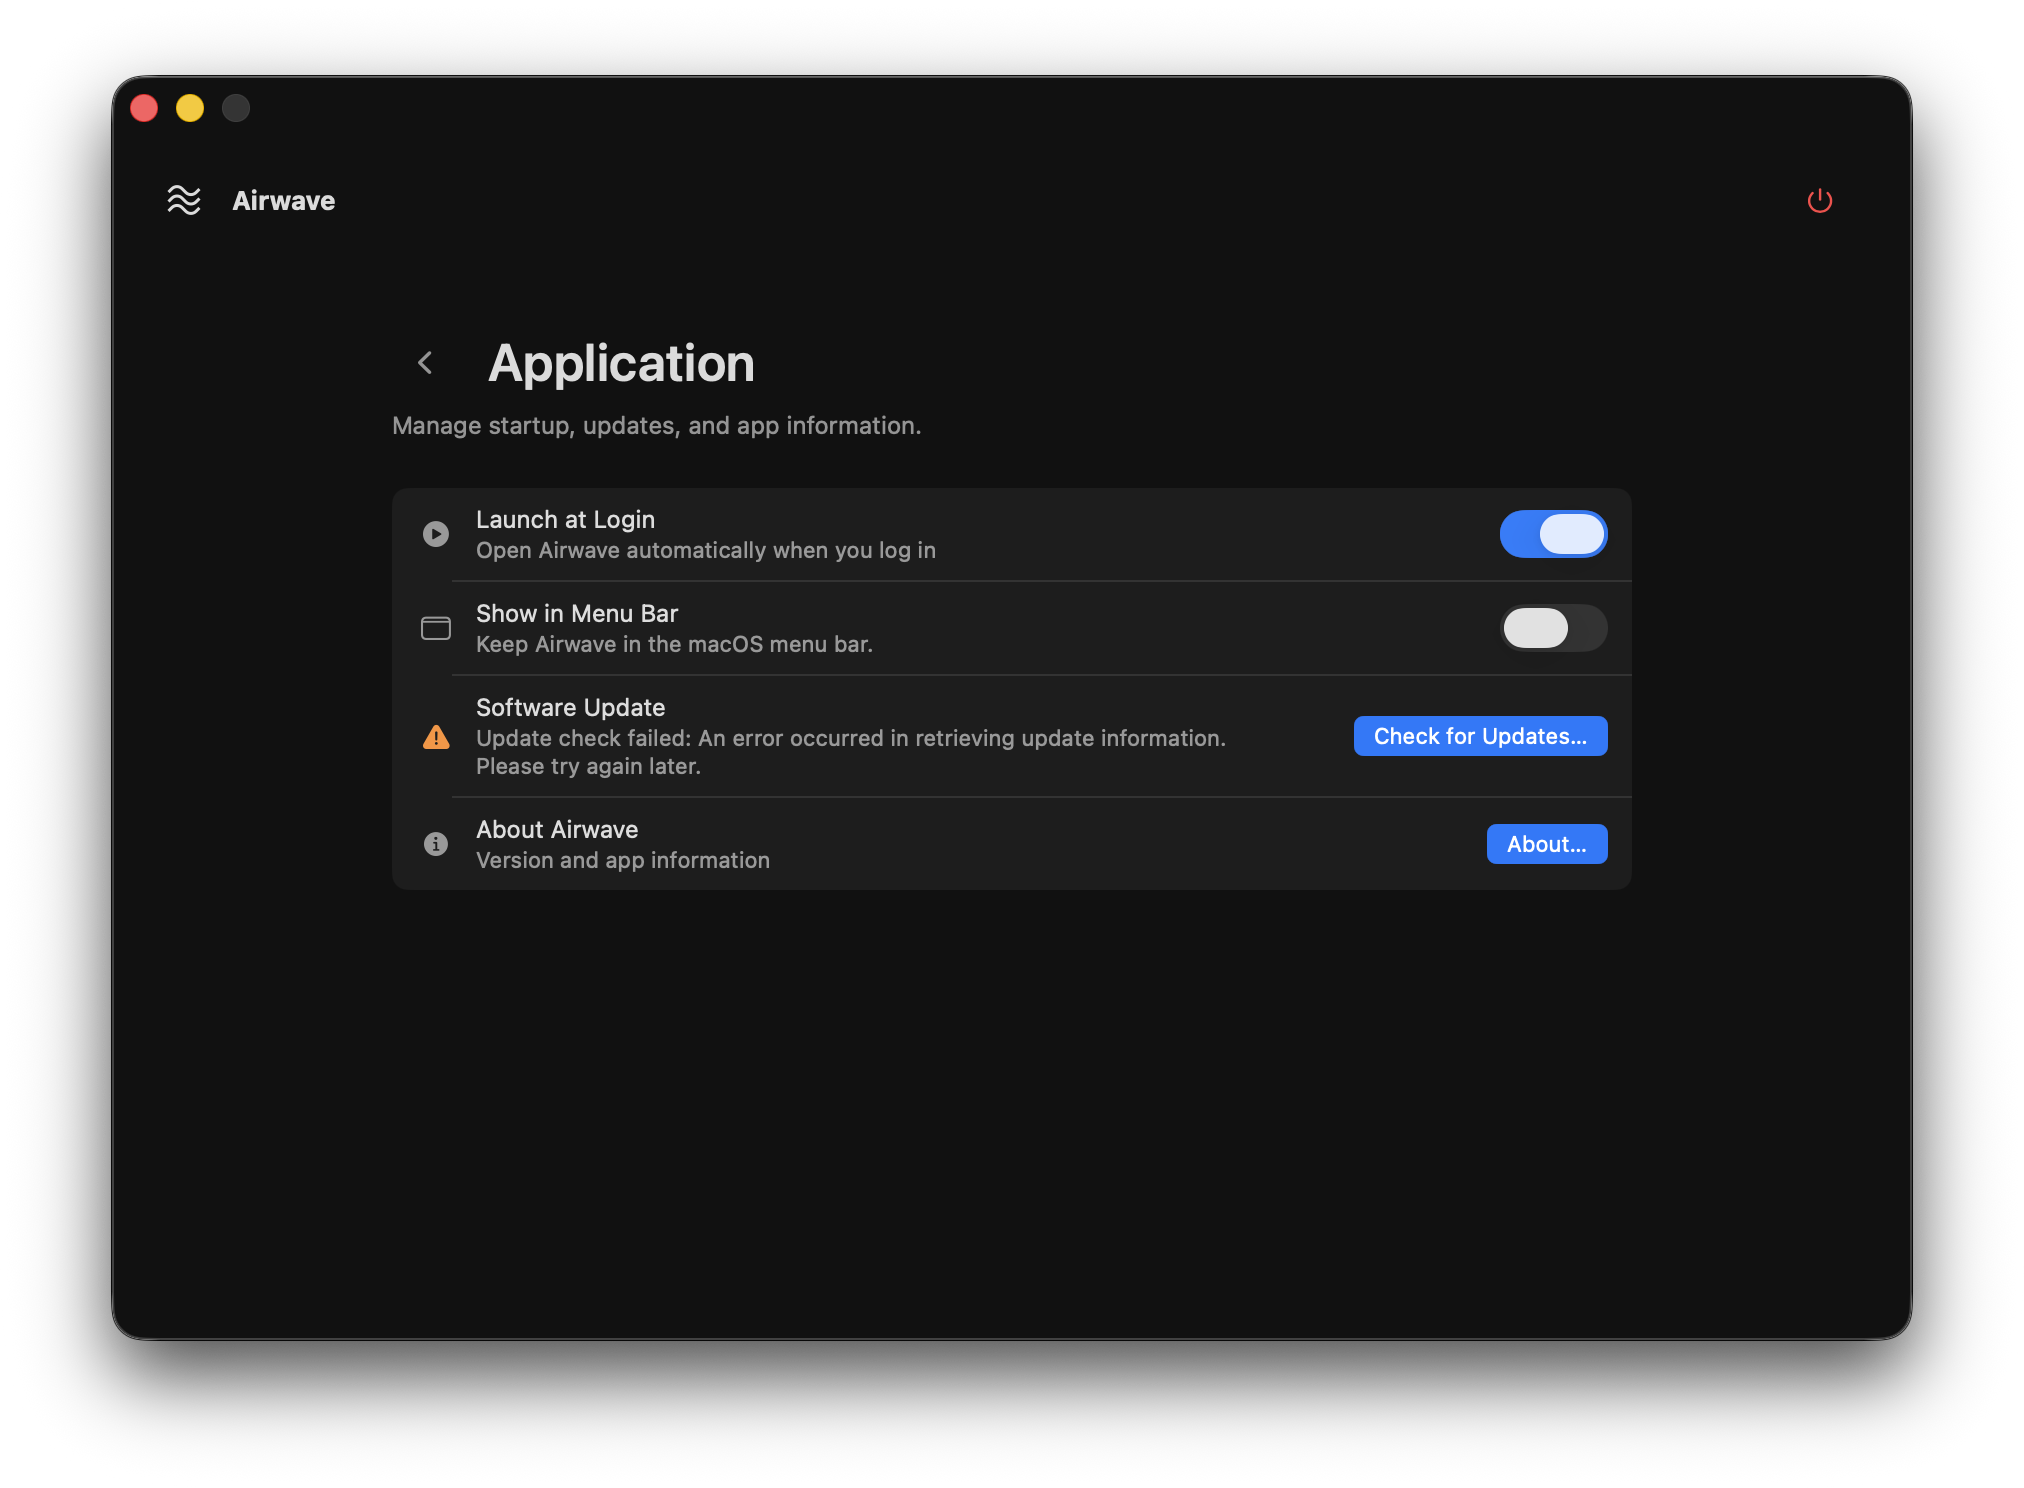
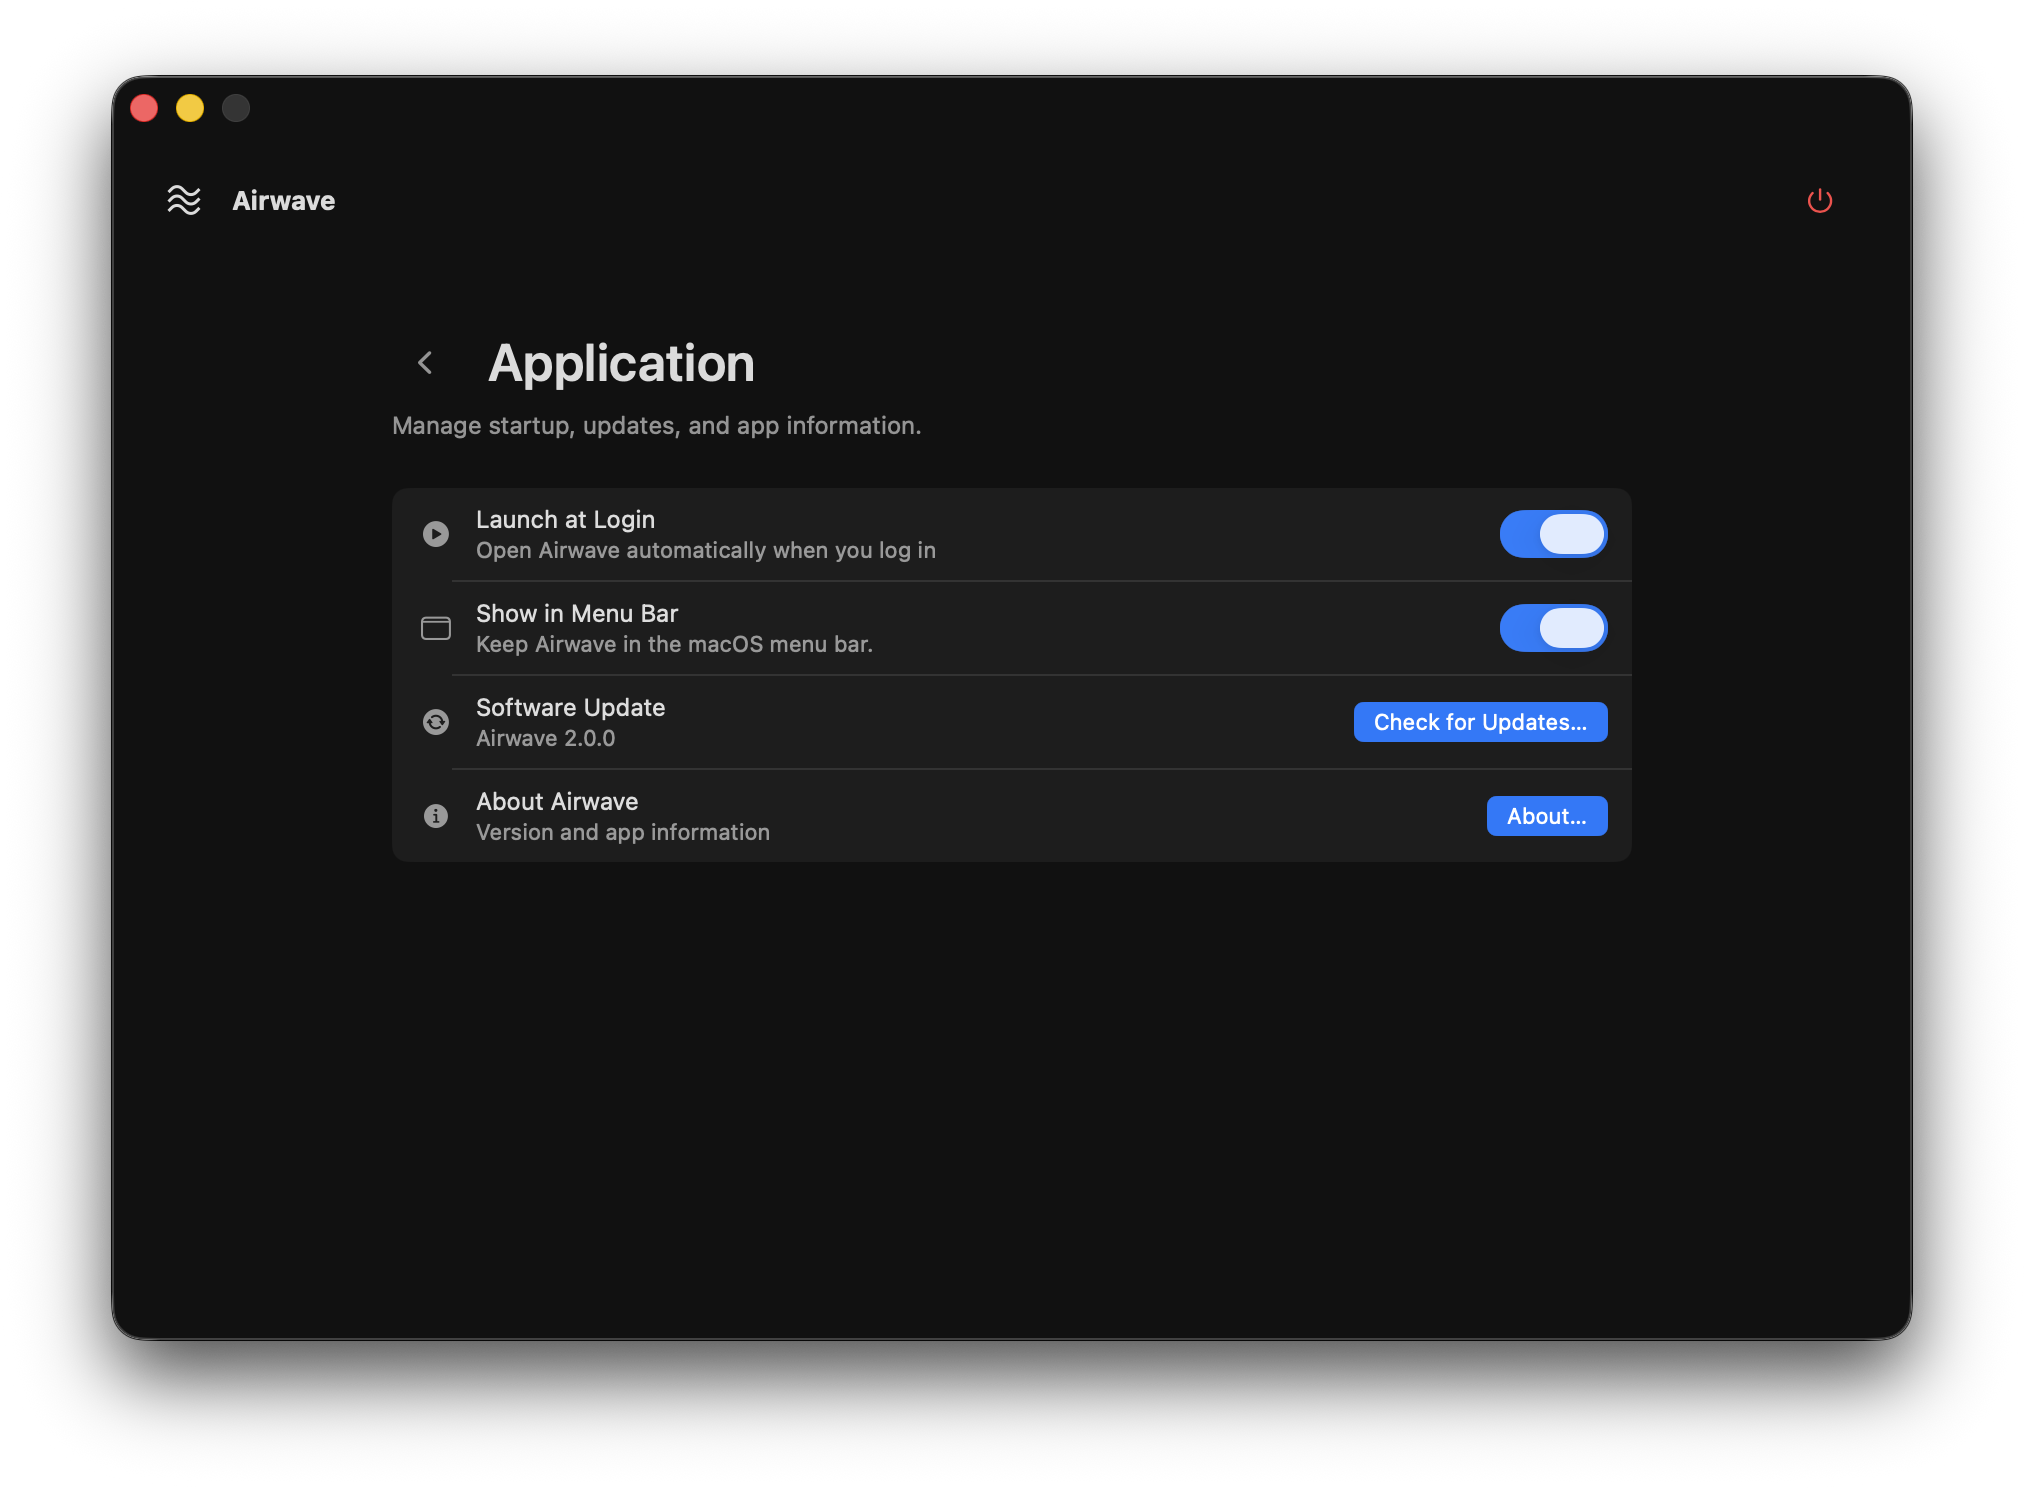
gamer

diff --git a/AirwaveTests/ProductSurfaceTests.swift b/AirwaveTests/ProductSurfaceTests.swift
@@ -115,6 +115,15 @@ final class ProductSurfaceTests: XCTestCase {
         XCTAssertFalse(source.contains(["macOS", "Permission"].joined(separator: " ")))
     }
 
+    func testOnboardingHRIRDescriptionCanWrap() throws {
+        let root = URL(fileURLWithPath: #filePath).deletingLastPathComponent().deletingLastPathComponent()
+        let source = try String(contentsOf: root.appendingPathComponent("Airwave/OnboardingView.swift"), encoding: .utf8)
+
+        XCTAssertTrue(source.contains(".frame(maxWidth: .infinity, alignment: .leading)"))
+        XCTAssertTrue(source.contains(".fixedSize(horizontal: false, vertical: true)"))
+        XCTAssertTrue(source.contains(".frame(height: 260, alignment: .top)"))
+    }
+
     func testCaptureControlsGuidanceAndStatusCardOrder() throws {
         let root = URL(fileURLWithPath: #filePath).deletingLastPathComponent().deletingLastPathComponent()
         let source = try String(contentsOf: root.appendingPathComponent("Airwave/OnboardingView.swift"), encoding: .utf8)

diff --git a/Airwave/OnboardingView.swift b/Airwave/OnboardingView.swift
@@ -214,6 +214,8 @@ struct OnboardingView: View {
     private var hrirStep: some View {
         VStack(alignment: .leading, spacing: AirwaveLayout.sectionContentSpacing) {
             Text("Choose the HRIR preset used by Airwave for processing. You can play audio in the background to audition it in real time")
+                .frame(maxWidth: .infinity, alignment: .leading)
+                .fixedSize(horizontal: false, vertical: true)
 
             AirwaveHRIRPicker(
                 manager: hrirManager,
@@ -225,7 +227,7 @@ struct OnboardingView: View {
                     }
                 }
             )
-            .frame(height: 300, alignment: .top)
+            .frame(height: 260, alignment: .top)
             .disabled(profiles.currentDeviceUID == nil)
             .background(AirwavePalette.raised, in: RoundedRectangle(cornerRadius: AirwaveLayout.cardCornerRadius))
         }

diff --git a/Airwave/SettingsView.swift b/Airwave/SettingsView.swift
@@ -229,7 +229,7 @@ struct SettingsView: View {
             }
 
         }
-        .frame(width: 900, height: 620)
+        .frame(width: 900, height: 600)
         .preferredColorScheme(.dark)
     }
 